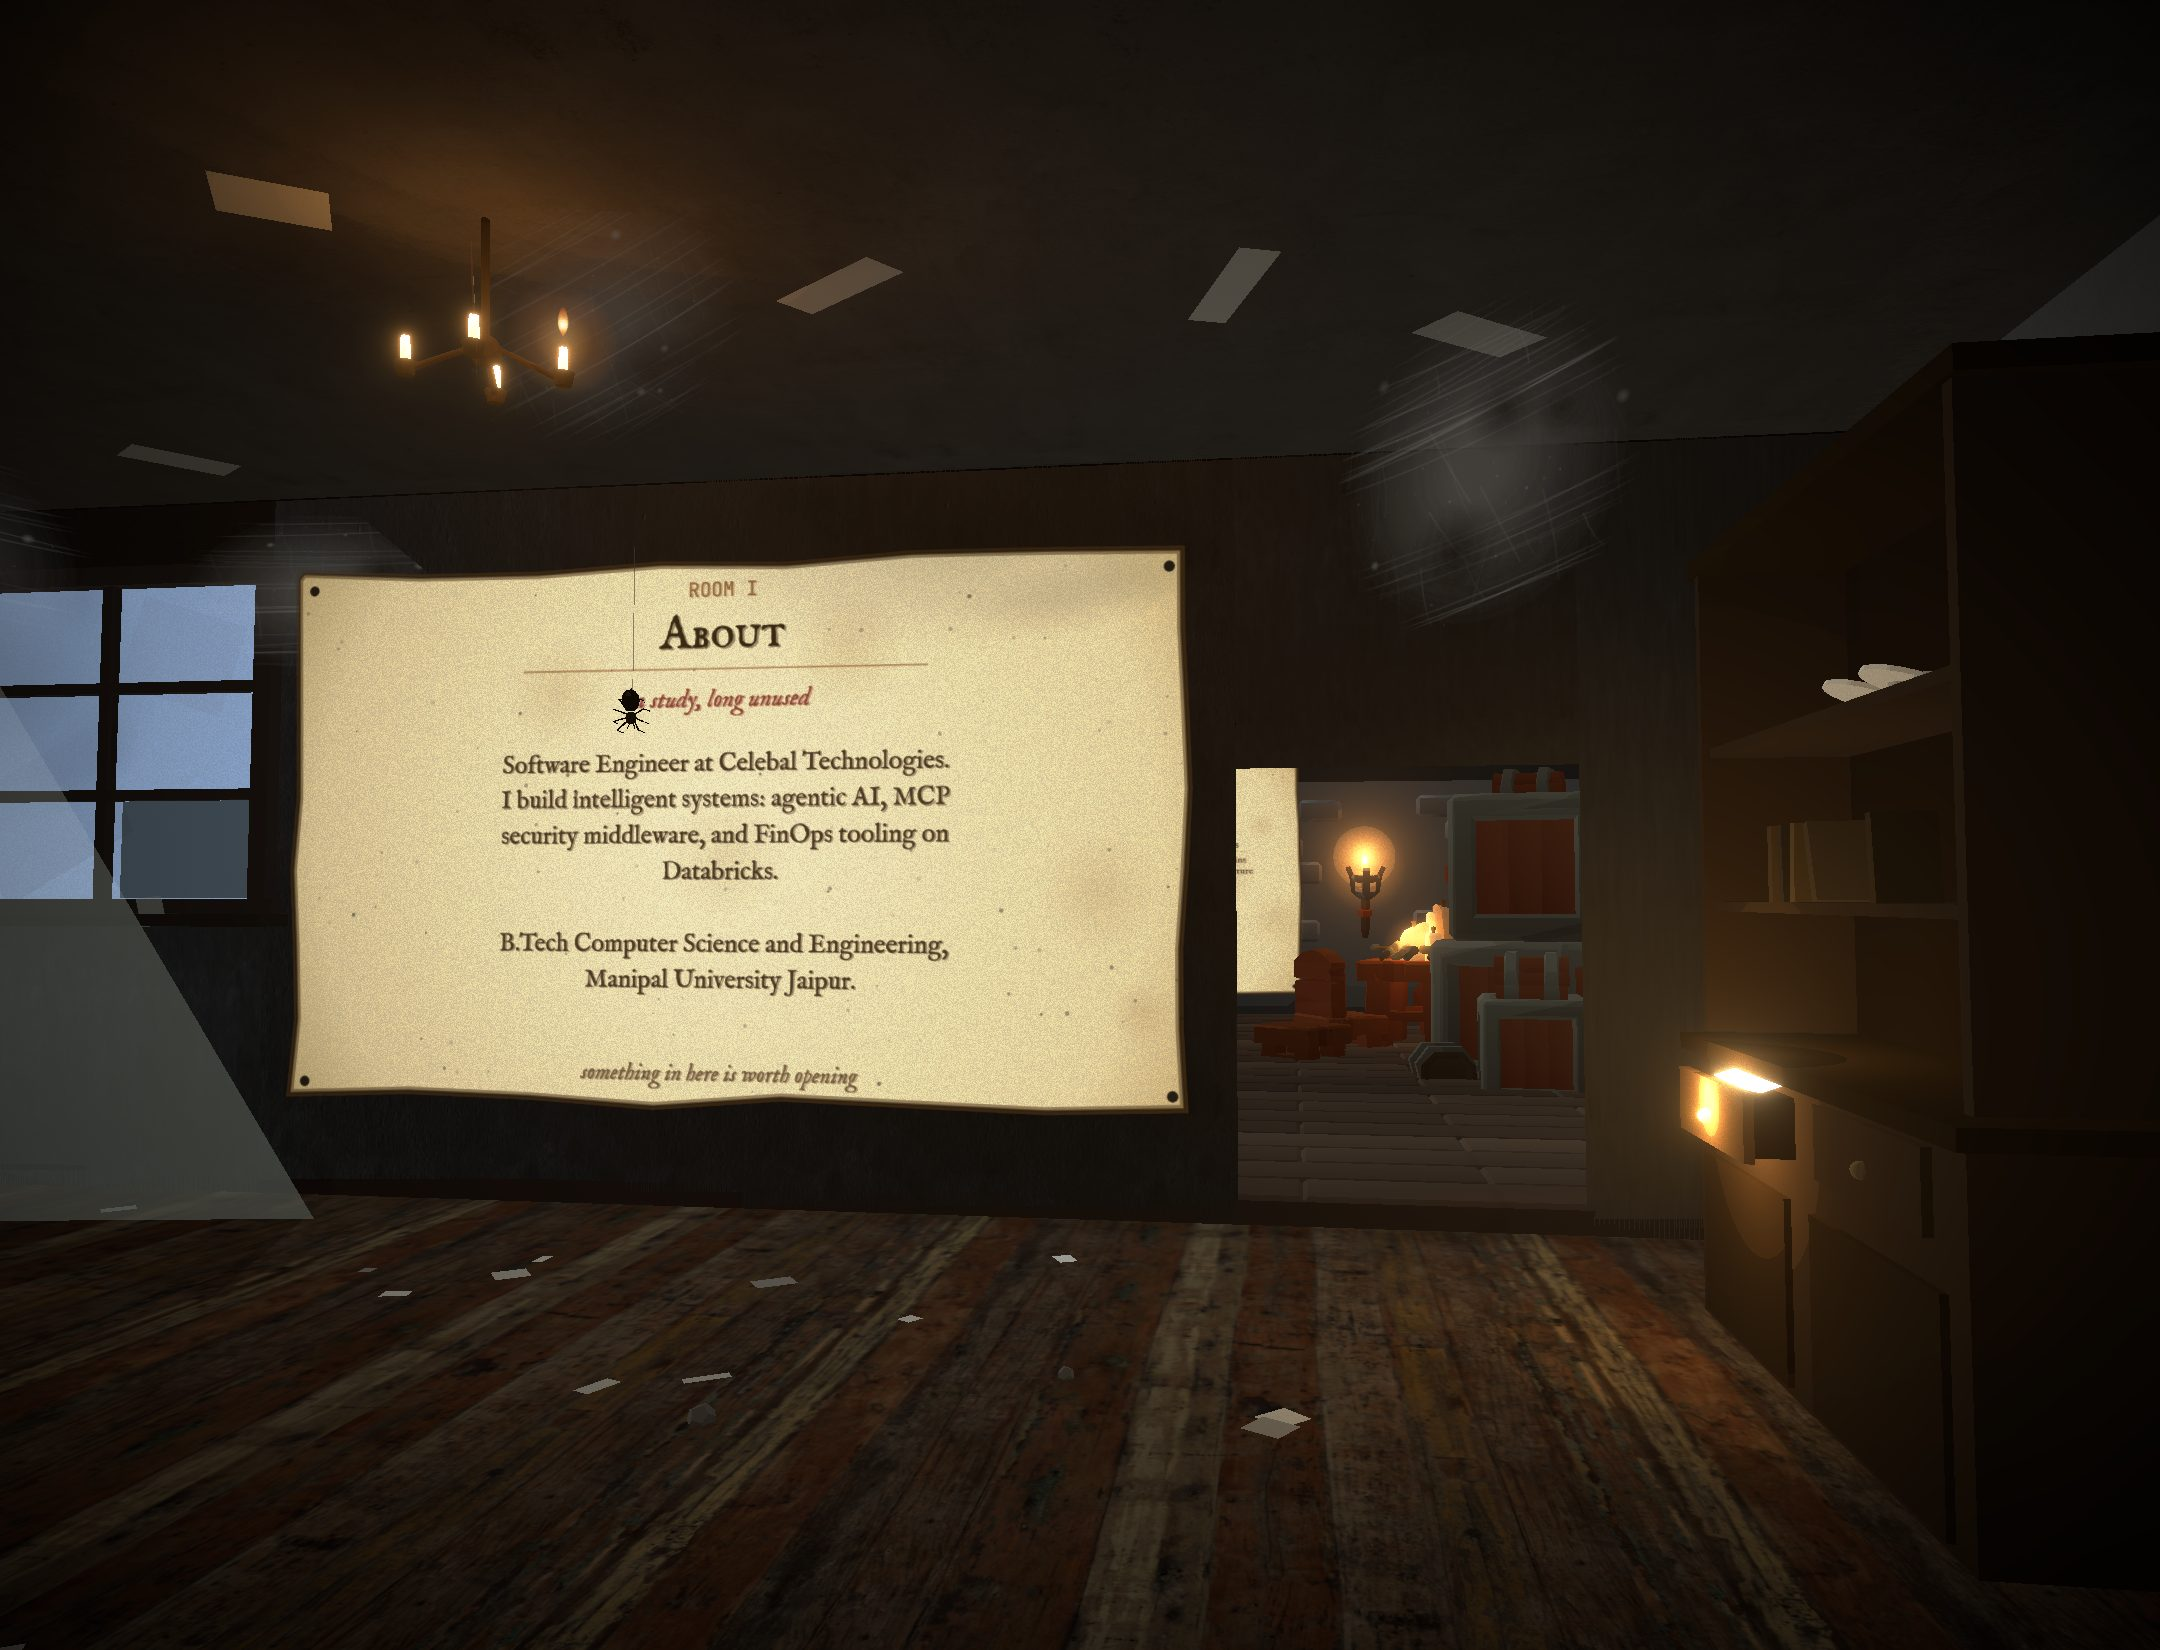
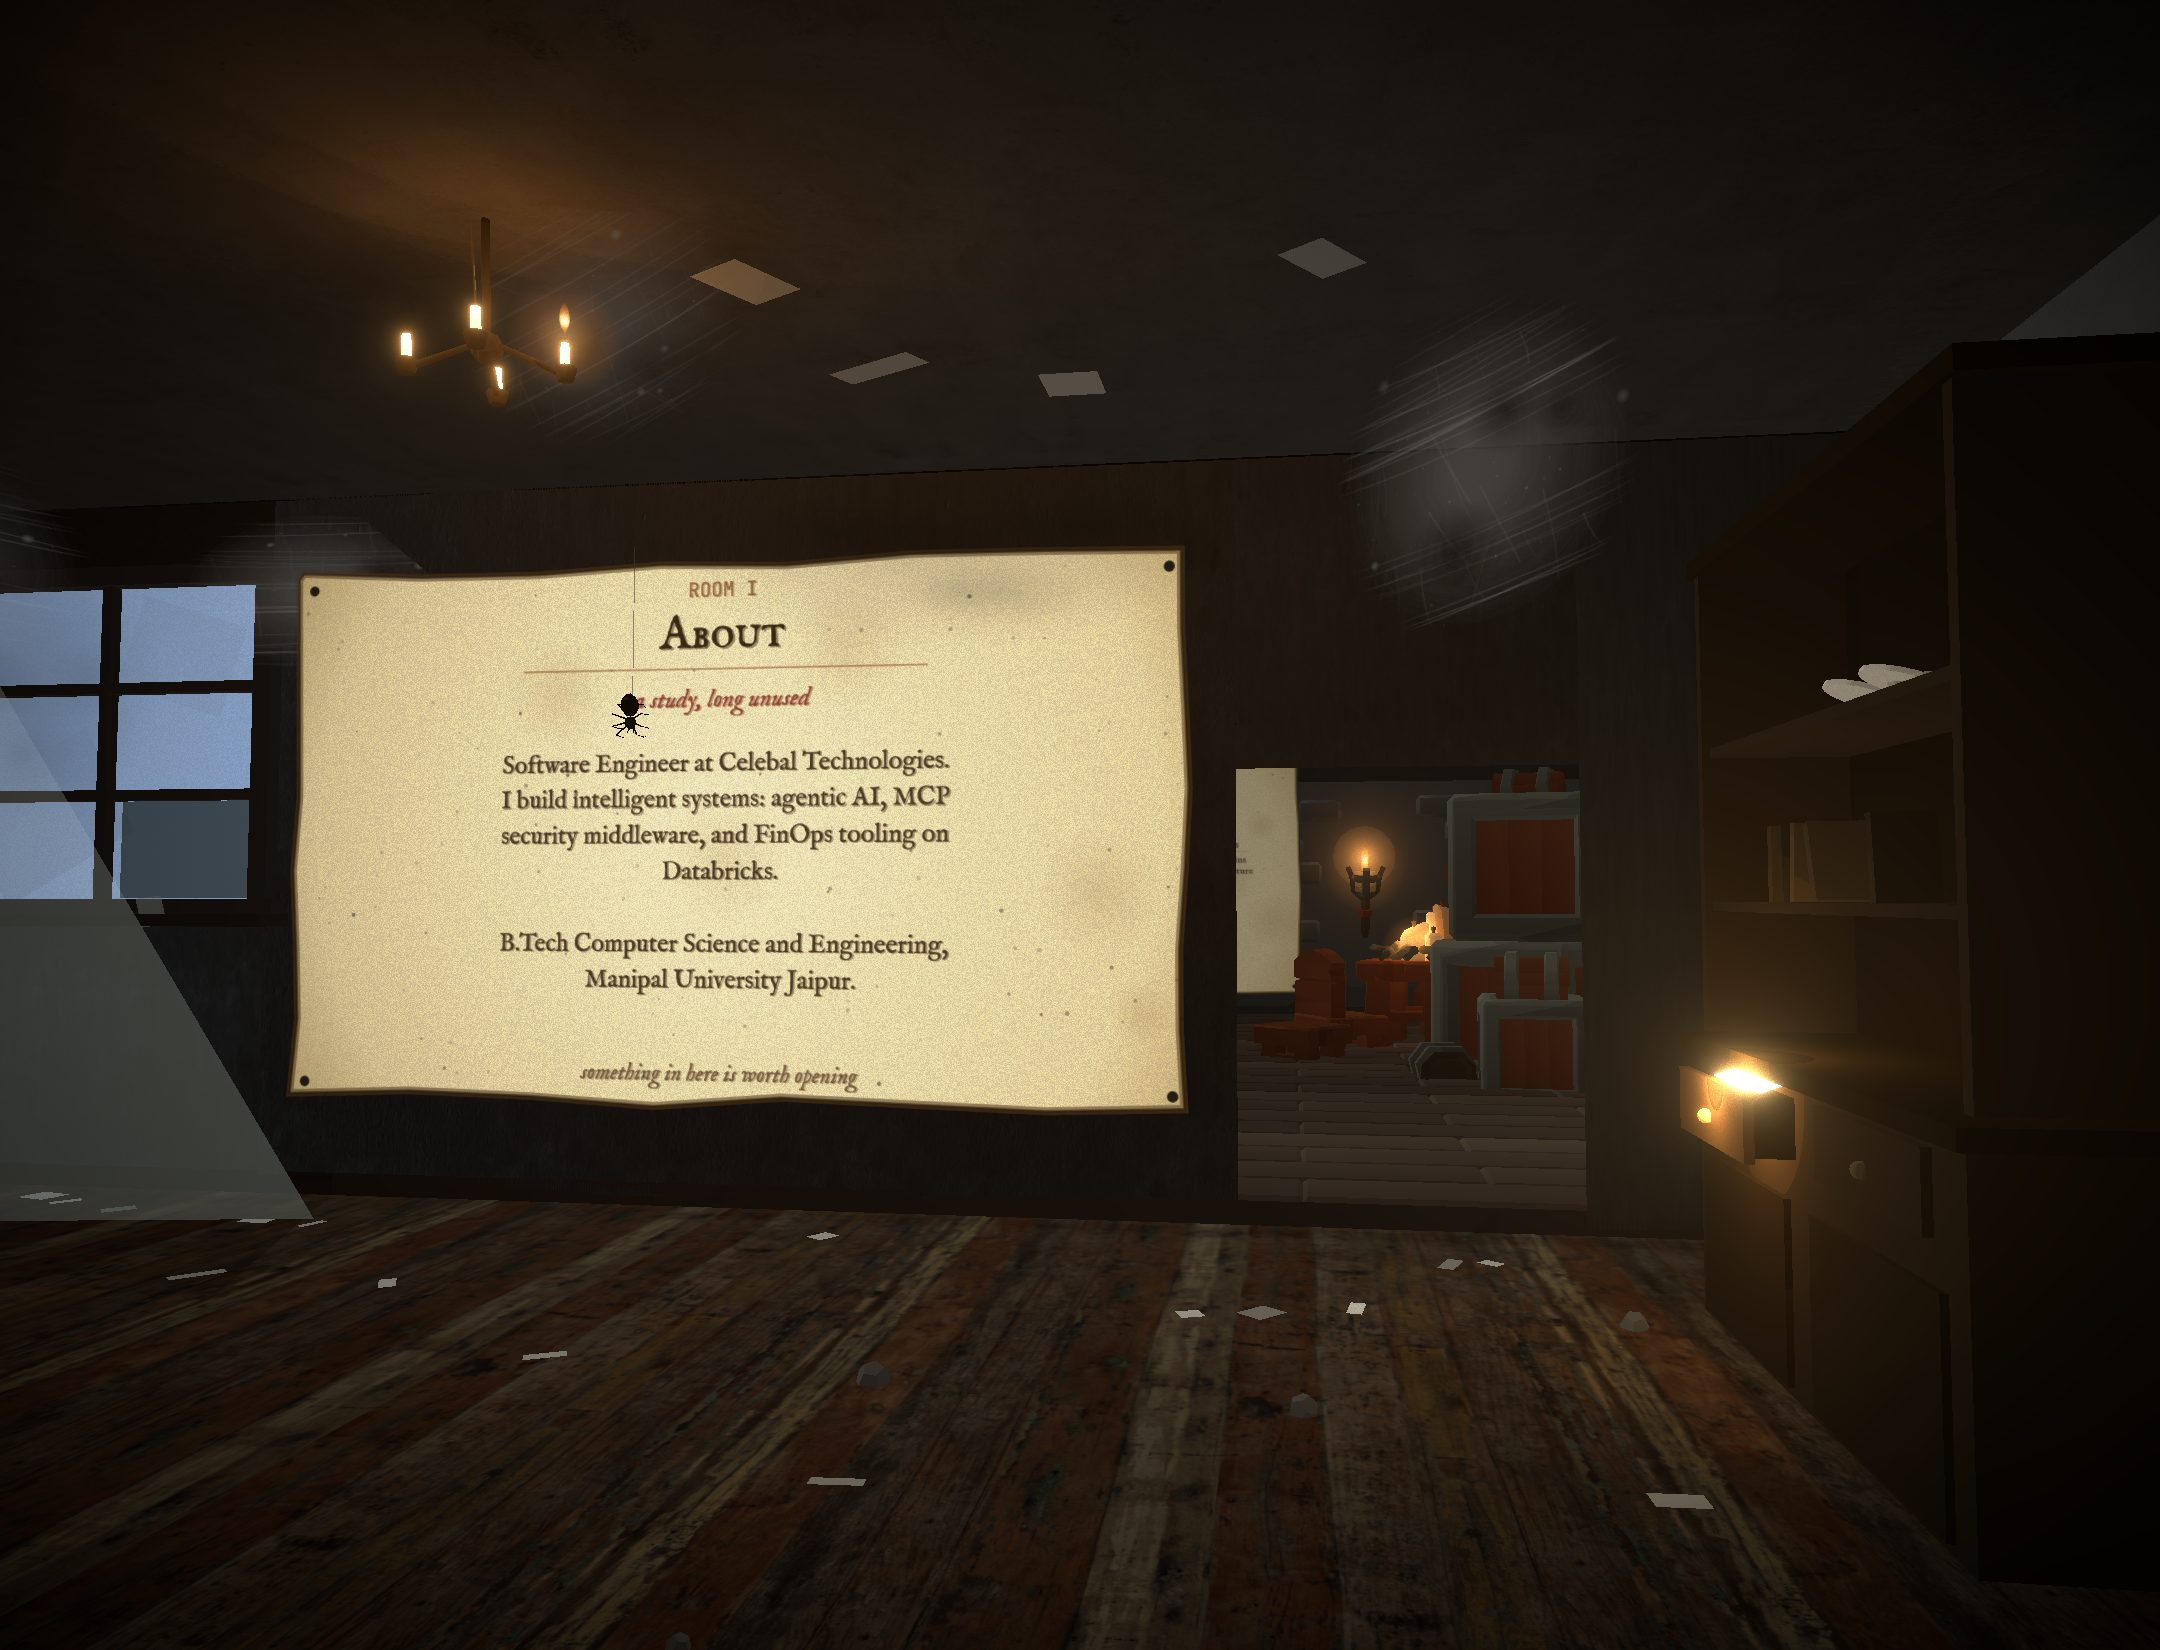
fix: the walk goes through the doorway; the ceiling stops being a void
The phasing was the PATH, not the furniture. The walk is a Catmull-Rom
through [exit, door, next-room-eye], and with only those three points the
tangent AT the door is (eye - exit)/2 — already pointing off toward the
next room. So the curve bows PAST the opening on the way in and comes
back, taking the camera through the wall and whatever stands against it.
Pinning a guide point 1.35u either side of the door, on the door's own
axis, forces the curve to arrive and leave along the opening. Measured
across all six transitions: the camera now stays within 0.5u of each door
centre, inside a ~2.5u opening, and clears the study hutch by 0.75u.

I moved that hutch four times before looking at the curve. The furniture
was never the problem.

The black band was the CEILING. Raycasting into it hit nothing for eleven
units and then a ceiling plane three rooms down, which is why probing the
DOM found only transparent layers. A ceiling faces DOWN, so it receives
the hemisphere's GROUND colour — which was near-black, so the largest
surface in every room rendered as a void with a hard edge where the wall
ended. The ground term is now a warm dim value, which reads as candlelight
bouncing up off the floor and only affects downward-facing surfaces.
Distance fog was added too, so far rooms recede instead of showing as flat
shapes through a doorway.

Both were found by adding a probe to the scene (window.__probe fires a ray
[…]

diff --git a/src/scene/SceneCanvas.jsx b/src/scene/SceneCanvas.jsx
@@ -63,13 +63,45 @@ export default function SceneCanvas() {
         camera={{ position: [0, -0.55, 6.6], fov: 58 }}
         dpr={[1, 1.5]}
         gl={{ antialias: true, alpha: true, powerPreference: 'high-performance' }}
-        onCreated={({ gl }) => {
+        onCreated={({ gl, scene, camera, raycaster }) => {
           gl.toneMapping = THREE.ACESFilmicToneMapping
           gl.toneMappingExposure = 1.12
+          // A hook for the verify harness. Asking "what is that dark band"
+          // from the DOM side is unanswerable — every layer is transparent
+          // because the thing is in the scene. This lets a test fire a ray
+          // at a screen pixel and name the mesh it hits.
+          if (typeof window !== 'undefined') {
+            window.__camPos = () => camera.position.toArray().map((n) => +n.toFixed(2))
+            window.__probe = (px, py) => {
+              const r = gl.domElement.getBoundingClientRect()
+              const ndc = new THREE.Vector2(
+                ((px - r.left) / r.width) * 2 - 1,
+                -((py - r.top) / r.height) * 2 + 1
+              )
+              raycaster.setFromCamera(ndc, camera)
+              return raycaster.intersectObjects(scene.children, true).slice(0, 4).map((h) => ({
+                name: h.object.name || h.object.type,
+                dist: +h.distance.toFixed(2),
+                mat: h.object.material?.type,
+                colour: h.object.material?.color?.getHexString?.(),
+                transparent: h.object.material?.transparent,
+                opacity: h.object.material?.opacity,
+                world: h.object.getWorldPosition(new THREE.Vector3()).toArray().map((n) => +n.toFixed(2)),
+              }))
+            }
+          }
         }}
         performance={{ min: 0.5 }}
       >
         <color attach="background" args={['#0d0b08']} />
+        {/* Distance fades into the room's own dark instead of showing as
+            flat black shapes. Looking through a doorway you can see three
+            rooms down the line, and the geometry back there catches no
+            light — which rendered as a hard-edged black band across the
+            middle of the picture. Raycasting into it hit nothing for 11
+            units and then a ceiling plane. Fog is the honest fix: the far
+            room is still there, it just recedes. */}
+        <fog attach="fog" args={['#0d0b08', 11, 34]} />
         <CameraRig />
         <Manor lit={lit} lantern={lantern} />
         <EmberField count={dust} />

diff --git a/src/scene/CameraRig.jsx b/src/scene/CameraRig.jsx
@@ -21,15 +21,39 @@ const _b = new THREE.Vector3()
 // One curve per doorway, built once. Catmull-Rom rather than a Bézier
 // because the camera has to pass THROUGH the opening — a Bézier only bends
 // toward its control point, which walks you into the wall beside the door.
+// How wide a doorway actually is, and how far either side of it the walk is
+// held straight. The opening is one wall panel; staying within about a
+// metre of its centre keeps the camera inside the frame of the door.
+const DOOR_APPROACH = 1.35
+
 const WALKS = ROOMS.slice(0, -1).map((room, i) => {
   const next = ROOMS[i + 1]
   const off = roomOffset(i), sx = roomShift(i)
   const nOff = roomOffset(i + 1), nsx = roomShift(i + 1)
-  return new THREE.CatmullRomCurve3([
-    new THREE.Vector3(room.exit[0] + sx, room.exit[1], room.exit[2] + off),
-    new THREE.Vector3(room.door[0] + sx, room.door[1], room.door[2] + off),
-    new THREE.Vector3(next.eye[0] + nsx, next.eye[1], next.eye[2] + nOff),
-  ], false, 'catmullrom', 0.5)
+
+  const exit = new THREE.Vector3(room.exit[0] + sx, room.exit[1], room.exit[2] + off)
+  const door = new THREE.Vector3(room.door[0] + sx, room.door[1], room.door[2] + off)
+  const eye = new THREE.Vector3(next.eye[0] + nsx, next.eye[1], next.eye[2] + nOff)
+
+  // Two guide points on the door's own axis, one either side.
+  //
+  // With just [exit, door, eye] the Catmull-Rom tangent AT the door is
+  // (eye - exit) / 2, which already points off toward the next room — so
+  // the curve bows PAST the opening on the way in and comes back, and the
+  // camera goes through the wall and whatever is standing against it
+  // rather than through the door. That is the phasing, and it is the path
+  // at fault, not the furniture. Pinning a point just before and just
+  // after the doorway forces the curve to arrive and leave along the axis
+  // of the opening, so the camera goes through the hole in the wall.
+  const before = door.clone(); before.z += DOOR_APPROACH
+  const after = door.clone(); after.z -= DOOR_APPROACH
+
+  return new THREE.CatmullRomCurve3(
+    [exit, before, door, after, eye],
+    false,
+    'catmullrom',
+    0.5
+  )
 })
 
 function poseAt(t, eye, look) {

diff --git a/src/scene/ManorRoom.jsx b/src/scene/ManorRoom.jsx
@@ -62,7 +62,13 @@ export default function ManorRoom({
 
           A `dark` room has no window at all and is lit purely by what is
           standing in it. */}
-      <hemisphereLight args={['#8fa0b8', '#2c2820', dark ? 0.05 : 0.13]} />
+      {/* The ground colour is what DOWNWARD-facing surfaces receive, and the
+          ceiling is the biggest one in the room. At near-black it rendered
+          as a void — the hard dark band across the top of the picture,
+          which raycasting showed was the ceiling plane and not an overlay.
+          A warm, dim ground term reads as candlelight bouncing up off the
+          floor, and only affects surfaces that face down. */}
+      <hemisphereLight args={['#8fa0b8', '#4a3d2c', dark ? 0.07 : 0.17]} />
       {!dark && (
         <>
           <spotLight
